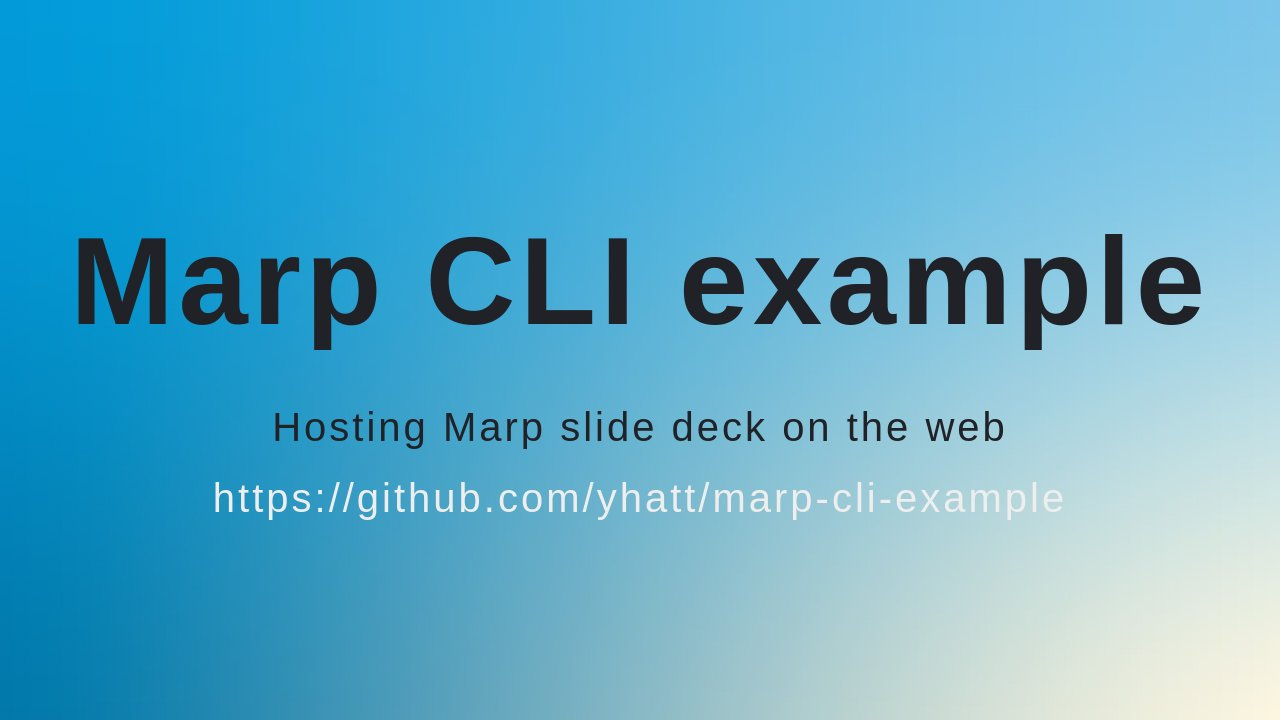
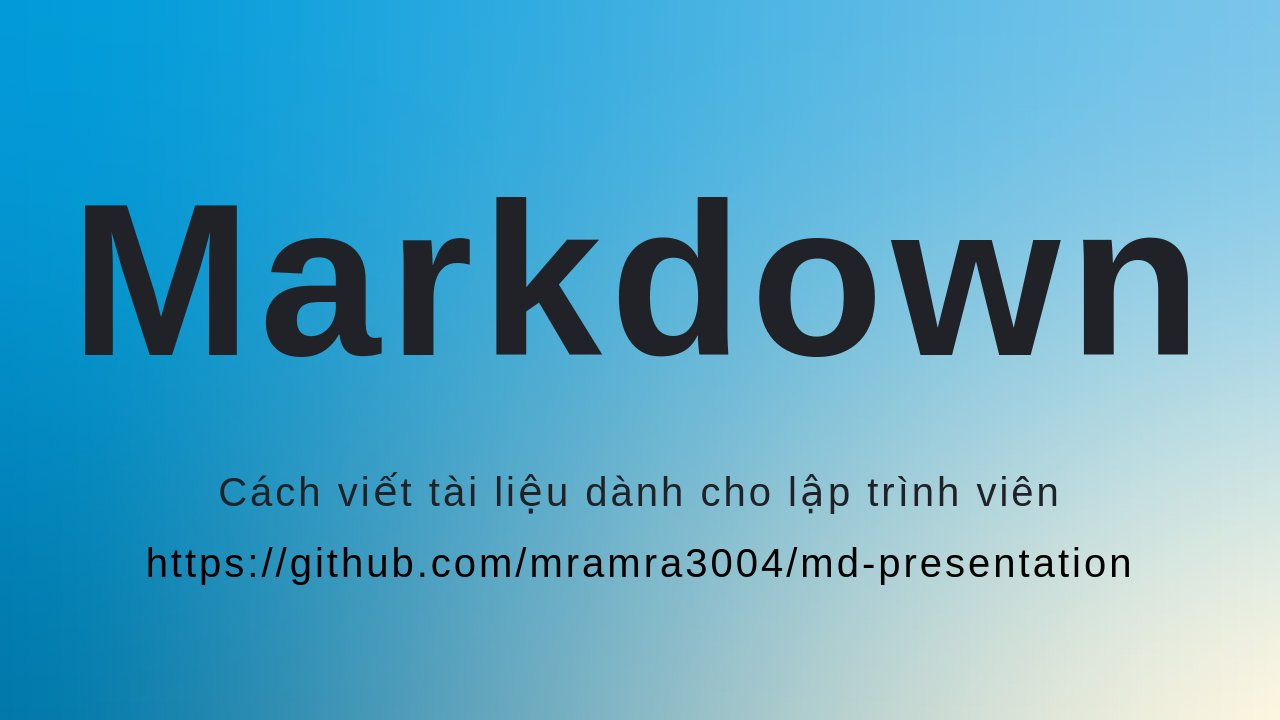
Deploying to gh-pages from  @ 460493b6c4408b404f9863a3b7ae3b3edbe38c3c 🚀

diff --git a/index.html b/index.html
@@ -8,12 +8,12 @@
  * @auto-scaling fittingHeader,math
  * @size 16:9 1280px 720px
  * @size 4:3 960px 720px
[1 lines of base64/hex data omitted]
-<h1><svg data-marp-fitting="svg"><foreignObject><span data-marp-fitting-svg-content> Marp CLI example</span></foreignObject></svg></h1>
-<p>Hosting Marp slide deck on the web</p>
-<p><a href="https://github.com/yhatt/marp-cli-example">https://github.com/yhatt/marp-cli-example</a></p>
[1 lines of base64/hex data omitted]
+<h1><svg data-marp-fitting="svg"><foreignObject><span data-marp-fitting-svg-content> Markdown</span></foreignObject></svg></h1>
+<p>Cách viết tài liệu dành cho lập trình viên</p>
+<p><a href="https://github.com/mramra3004/md-presentation">https://github.com/mramra3004/md-presentation</a></p>
 </section>
-</foreignObject><foreignObject width="1280" height="720" data-marpit-advanced-background="pseudo"><section style="" data-marpit-advanced-background="pseudo"></section></foreignObject></svg><svg data-marpit-svg="" viewBox="0 0 1280 720"><foreignObject width="1280" height="720"><section data-paginate="true" data-theme="uncover" data-marpit-pagination="2" data-marpit-pagination-total="8" style="--paginate:true;--theme:uncover;" data-marpit-advanced-background="background"><div data-marpit-advanced-background-container="true" data-marpit-advanced-background-direction="horizontal"><figure style="background-image:url(&quot;https://raw.githubusercontent.com/marp-team/marp/master/marp.png&quot;);background-size:60%;"></figure></div></section></foreignObject><foreignObject width="1280" height="720"><section id="2" data-paginate="true" data-theme="uncover" data-marpit-pagination="2" data-marpit-pagination-total="8" style="--paginate:true;--theme:uncover;" data-marpit-advanced-background="content"></section>
+</foreignObject><foreignObject width="1280" height="720" data-marpit-advanced-background="pseudo"><section style="" data-marpit-advanced-background="pseudo"></section></foreignObject></svg><svg data-marpit-svg="" viewBox="0 0 1280 720"><foreignObject width="1280" height="720"><section data-paginate="true" data-theme="uncover" data-marpit-pagination="2" data-marpit-pagination-total="8" style="--paginate:true;--theme:uncover;" data-marpit-advanced-background="background"><div data-marpit-advanced-background-container="true" data-marpit-advanced-background-direction="horizontal"><figure style="background-image:url(&quot;./assets/kisspng-markdown-computer-icons-text-editor-5b087c0f7dc464.0959796815272827035152.png&quot;);background-size:60%;"></figure></div></section></foreignObject><foreignObject width="1280" height="720"><section id="2" data-paginate="true" data-theme="uncover" data-marpit-pagination="2" data-marpit-pagination-total="8" style="--paginate:true;--theme:uncover;" data-marpit-advanced-background="content"></section>
 </foreignObject><foreignObject width="1280" height="720" data-marpit-advanced-background="pseudo"><section style="" data-marpit-advanced-background="pseudo" data-marpit-pagination="2" data-marpit-pagination-total="8"></section></foreignObject></svg><svg data-marpit-svg="" viewBox="0 0 1280 720"><foreignObject width="1280" height="720"><section id="3" data-paginate="true" data-theme="uncover" data-background-color="#123" data-color="#fff" data-marpit-pagination="3" data-marpit-pagination-total="8" style="--paginate:true;--theme:uncover;--background-color:#123;--color:#fff;color:#fff;background-color:#123;background-image:none;">
 <h5><svg data-marp-fitting="svg"><foreignObject><span data-marp-fitting-svg-content> <a href="https://github.com/marp-team/marp-cli">Marp CLI</a> + <a href="https://github.com/pages">GitHub Pages</a> | <a href="https://www.netlify.com/">Netlify</a> | <a href="https://vercel.com/">Vercel</a></span></foreignObject></svg></h5>
 <h5><svg data-marp-fitting="svg"><foreignObject><span data-marp-fitting-svg-content> <img class="emoji" draggable="false" alt="👉" src="https://twemoji.maxcdn.com/2/svg/1f449.svg" data-marp-twemoji=""/> The easiest way to host<br />your Marp deck on the web</span></foreignObject></svg></h5>
